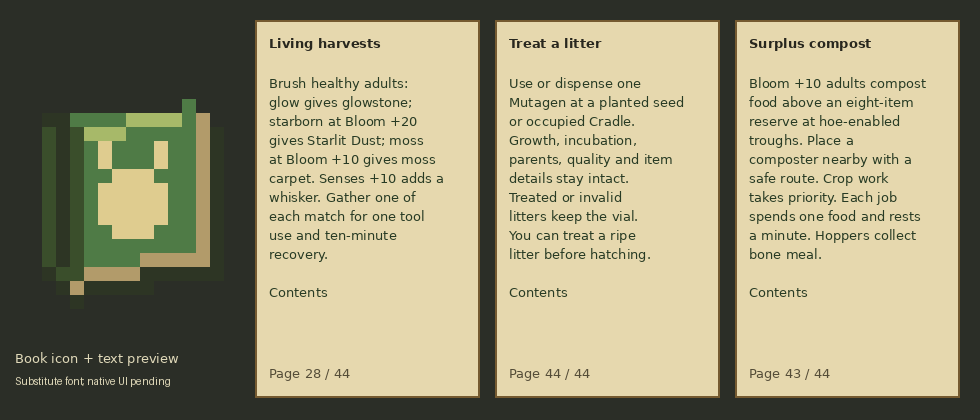
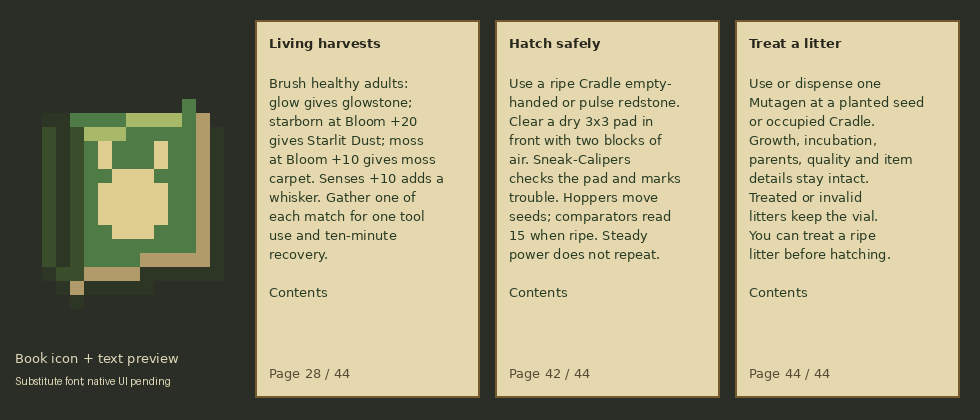
Inspect Cradle hatch pads with Calipers and native markers

diff --git a/src/main/java/com/bunnidogs/mod/item/CalipersItem.java b/src/main/java/com/bunnidogs/mod/item/CalipersItem.java
@@ -7,6 +7,8 @@ import java.util.function.Consumer;
 
 import com.bunnidogs.mod.block.SeedCropBlockEntity;
 import com.bunnidogs.mod.block.NurseryCradleBlockEntity;
+import com.bunnidogs.mod.block.NurseryCradleBlock;
+import com.bunnidogs.mod.entity.NurseryHatching;
 import com.bunnidogs.mod.entity.Bunnidog;
 import com.bunnidogs.mod.genetics.Gene;
 import com.bunnidogs.mod.genetics.Diet;
@@ -20,9 +22,11 @@ import com.bunnidogs.mod.genetics.Tissue;
 import com.bunnidogs.mod.network.ModNetwork;
 
 import net.minecraft.ChatFormatting;
+import net.minecraft.core.particles.ParticleTypes;
 import net.minecraft.network.chat.Component;
 import net.minecraft.network.chat.ComponentUtils;
 import net.minecraft.server.level.ServerPlayer;
+import net.minecraft.server.level.ServerLevel;
 import net.minecraft.world.InteractionHand;
 import net.minecraft.world.InteractionResult;
 import net.minecraft.world.entity.player.Player;
@@ -162,7 +166,7 @@ public class CalipersItem extends Item {
         return InteractionResult.SUCCESS;
     }
 
-    /** Reads the seed planted in a seed crop; any other block passes. */
+    /** Reads litter genetics, or inspects a Cradle's loaded incubation/pad while crouching. */
     @Override
     public InteractionResult useOn(UseOnContext context) {
         Level level = context.getLevel();
@@ -171,7 +175,13 @@ public class CalipersItem extends Item {
         var block = level.getBlockEntity(context.getClickedPos());
         Optional<Seed> planted;
         if (block instanceof SeedCropBlockEntity crop) planted = crop.seed();
-        else if (block instanceof NurseryCradleBlockEntity cradle) planted = cradle.seed();
+        else if (block instanceof NurseryCradleBlockEntity cradle) {
+            if (player.isShiftKeyDown()) {
+                if (!level.isClientSide()) showCradle(player,cradle);
+                return InteractionResult.SUCCESS;
+            }
+            planted = cradle.seed();
+        }
         else return InteractionResult.PASS;
         if (!level.isClientSide()) {
             Optional<Seed> seed = planted;
@@ -184,6 +194,27 @@ public class CalipersItem extends Item {
         return InteractionResult.SUCCESS;
     }
 
+    private static void showCradle(Player player, NurseryCradleBlockEntity cradle) {
+        if (!(player.level() instanceof ServerLevel server)) return;
+        var facing = cradle.getBlockState().getValue(NurseryCradleBlock.FACING);
+        var check = NurseryHatching.inspect(server,cradle.getBlockPos(),facing);
+        var item = cradle.storedSeed();
+        player.sendSystemMessage(item.isEmpty() ? Component.translatable("message.bunnidogs.cradle.readout_empty")
+                : Component.translatable("message.bunnidogs.cradle.readout",item.getHoverName(),
+                    cradle.age(),(cradle.growthWait()+19)/20,cradle.stockSignal()));
+        var problem = check.problem();
+        String location = problem == null ? "—" : problem.getX()+", "+problem.getY()+", "+problem.getZ();
+        player.sendSystemMessage(Component.translatable("message.bunnidogs.cradle.pad."+check.status().name().toLowerCase(Locale.ROOT),check.nearby(),location));
+        if (problem != null) {
+            if (server.hasChunkAt(problem)) server.sendParticles(ParticleTypes.ANGRY_VILLAGER,
+                    problem.getX()+.5,problem.getY()+.8,problem.getZ()+.5,2,.1,.1,.1,0);
+        } else for (var slot : NurseryHatching.pad(cradle.getBlockPos(),facing)) {
+            if (server.hasChunkAt(slot)) server.sendParticles(check.status() == NurseryHatching.Status.READY
+                    ? ParticleTypes.HAPPY_VILLAGER : ParticleTypes.SMOKE,
+                    slot.getX()+.5,slot.getY()+.15,slot.getZ()+.5,1,0,0,0,0);
+        }
+    }
+
     @Override
     public void appendHoverText(ItemStack stack, Item.TooltipContext context, TooltipDisplay display,
             Consumer<Component> lines, TooltipFlag flag) {
@@ -191,6 +222,7 @@ public class CalipersItem extends Item {
         lines.accept(Component.literal("Right-click a bunnidog: its sheet opens").withStyle(ChatFormatting.GRAY));
         lines.accept(Component.translatable("tooltip.bunnidogs.calipers.care").withStyle(ChatFormatting.GRAY));
         lines.accept(Component.literal("Right-click a planted seed or Nursery Cradle: litter forecast").withStyle(ChatFormatting.GRAY));
+        lines.accept(Component.translatable("tooltip.bunnidogs.calipers.cradle").withStyle(ChatFormatting.DARK_GRAY));
         lines.accept(Component.literal("Or hold a seed, sample or occupied Travel Basket in the other hand").withStyle(ChatFormatting.DARK_GRAY));
         lines.accept(Component.literal("Off hand when you kill: a Tissue Sample").withStyle(ChatFormatting.DARK_GRAY));
     }

diff --git a/src/main/java/com/bunnidogs/mod/entity/NurseryHatching.java b/src/main/java/com/bunnidogs/mod/entity/NurseryHatching.java
@@ -17,8 +17,9 @@ import net.minecraft.world.phys.Vec3;
 /** Loaded-only, checked litter placement. Callers reserve their one seed while native spawn hooks run. */
 public final class NurseryHatching {
     private NurseryHatching() {}
-    public enum Status { EMPTY, NOT_RIPE, BLOCKED, CROWDED, REFUSED, HATCHED }
+    public enum Status { EMPTY, NOT_RIPE, BLOCKED, CROWDED, REFUSED, HATCHED, READY }
     public record Outcome(Status status, int count) {}
+    public record PadCheck(Status status, BlockPos problem, int nearby) {}
     public static Outcome refused(Status status) { return new Outcome(status,0); }
     public static List<BlockPos> pad(BlockPos cradle, Direction facing) {
         var center = cradle.relative(facing,2);
@@ -27,24 +28,31 @@ public final class NurseryHatching {
         for (int x = -1; x <= 1; x++) for (int z = -1; z <= 1; z++) if (x != 0 || z != 0) slots.add(center.offset(x,0,z));
         return List.copyOf(slots);
     }
-    public static Outcome hatch(ServerLevel level, BlockPos cradle, Direction facing, Seed seed) {
+    /** Read-only loaded-world preflight shared by actual hatching and the Calipers planning view. */
+    public static PadCheck inspect(ServerLevel level, BlockPos cradle, Direction facing) {
         var slots = pad(cradle,facing);
+        var center = cradle.relative(facing,2);
+        int nearby = level.getEntitiesOfClass(Bunnidog.class,new AABB(center).inflate(Breeding.CROWD_RADIUS)).size();
         for (var pos : slots) {
             if (!level.hasChunkAt(pos) || !level.isInWorldBounds(pos.above()) || !level.getWorldBorder().isWithinBounds(pos)
-                    || !level.getBlockState(pos).isAir() || !level.getBlockState(pos.above()).isAir()
-                    || !level.getFluidState(pos).isEmpty() || !level.getFluidState(pos.above()).isEmpty()) return refused(Status.BLOCKED);
+                    || !level.getBlockState(pos).isAir() || !level.getFluidState(pos).isEmpty()) return new PadCheck(Status.BLOCKED,pos,nearby);
+            if (!level.getBlockState(pos.above()).isAir() || !level.getFluidState(pos.above()).isEmpty()) return new PadCheck(Status.BLOCKED,pos.above(),nearby);
             var floor = level.getBlockState(pos.below());
             if (!floor.isFaceSturdy(level,pos.below(),Direction.UP) || !floor.getFluidState().isEmpty()
-                    || floor.is(Blocks.MAGMA_BLOCK) || floor.is(Blocks.CAMPFIRE) || floor.is(Blocks.SOUL_CAMPFIRE)) return refused(Status.BLOCKED);
+                    || floor.is(Blocks.MAGMA_BLOCK) || floor.is(Blocks.CAMPFIRE) || floor.is(Blocks.SOUL_CAMPFIRE)) return new PadCheck(Status.BLOCKED,pos.below(),nearby);
         }
-        var center = cradle.relative(facing,2);
         var area = new AABB(center.getX()-1,center.getY(),center.getZ()-1,center.getX()+2,center.getY()+2,center.getZ()+2);
-        if (!level.noCollision(null,area,true) || !level.getEntitiesOfClass(LivingEntity.class,area,e -> e.isAlive() && !e.isSpectator()).isEmpty())
-            return refused(Status.BLOCKED);
-        int nearby = level.getEntitiesOfClass(Bunnidog.class,new AABB(center).inflate(Breeding.CROWD_RADIUS)).size();
-        if (nearby >= Breeding.CROWD_LIMIT) return refused(Status.CROWDED);
+        var occupants = level.getEntitiesOfClass(LivingEntity.class,area,e -> e.isAlive() && !e.isSpectator());
+        if (!occupants.isEmpty()) return new PadCheck(Status.BLOCKED,occupants.getFirst().blockPosition(),nearby);
+        if (!level.noCollision(null,area,true)) return new PadCheck(Status.BLOCKED,center,nearby);
+        return new PadCheck(nearby >= Breeding.CROWD_LIMIT ? Status.CROWDED : Status.READY,null,nearby);
+    }
+    public static Outcome hatch(ServerLevel level, BlockPos cradle, Direction facing, Seed seed) {
+        var check = inspect(level,cradle,facing);
+        if (check.status() != Status.READY) return refused(check.status());
+        var slots = pad(cradle,facing);
         var rng = new Random(level.getRandom().nextLong());
-        var litter = seed.hatch(0,nearby,rng);
+        var litter = seed.hatch(0,check.nearby(),rng);
         if (litter.isEmpty()) return refused(Status.CROWDED);
         var prepared = new ArrayList<Bunnidog>();
         try {

diff --git a/tools/gametest/java/com/bunnidogs/mod/entity/CradleHatchingGameTest.java b/tools/gametest/java/com/bunnidogs/mod/entity/CradleHatchingGameTest.java
@@ -10,6 +10,7 @@ import com.bunnidogs.mod.genetics.Stats;
 import com.bunnidogs.mod.item.SeedItem;
 import com.bunnidogs.mod.registry.ModBlocks;
 import com.bunnidogs.mod.registry.ModEntities;
+import com.bunnidogs.mod.registry.ModItems;
 import net.minecraft.core.BlockPos;
 import net.minecraft.core.Direction;
 import net.minecraft.gametest.framework.GameTestHelper;
@@ -36,7 +37,18 @@ public final class CradleHatchingGameTest {
         var seed = new Seed(Genome.DEFAULT,Stats.ZERO,Genome.DEFAULT,Stats.ZERO,0);
         var source = SeedItem.create(seed); cradle.insert(source);
         h.assertTrue(cradle.hatch().status() == NurseryHatching.Status.NOT_RIPE && ItemStack.matches(cradle.storedSeed(),source),"Unripe hatch attempts must retain the entire seed");
+        var player = h.makeMockServerPlayerInLevel(); player.gameMode.changeGameModeForPlayer(GameType.SURVIVAL);
+        player.setShiftKeyDown(true); var calipers = new ItemStack(ModItems.CALIPERS.get()); player.setItemInHand(InteractionHand.MAIN_HAND,calipers);
+        var hit = new BlockHitResult(Vec3.atCenterOf(pos),Direction.UP,pos,false);
+        player.gameMode.useItemOn(player,level,calipers,InteractionHand.MAIN_HAND,hit);
+        h.assertTrue(NurseryHatching.inspect(level,pos,Direction.NORTH).status() == NurseryHatching.Status.READY
+                && ItemStack.matches(cradle.storedSeed(),source) && cradle.age() == 0 && cradle.growthWait() == NurseryCradleBlockEntity.STAGE_TICKS
+                && player.getMainHandItem() == calipers && level.getEntitiesOfClass(Bunnidog.class,new AABB(center).inflate(2),Bunnidog::isBaby).isEmpty(),
+                "Native sneak-Calipers must inspect an unripe clear pad without cost, incubation changes or premature pups");
         cradle.grow(true); level.setBlock(center,Blocks.STONE.defaultBlockState(),3);
+        player.gameMode.useItemOn(player,level,calipers,InteractionHand.MAIN_HAND,hit);
+        h.assertTrue(NurseryHatching.inspect(level,pos,Direction.NORTH).problem().equals(center) && ItemStack.matches(cradle.storedSeed(),source) && cradle.age() == 7,
+                "A ripe blocked-pad readout must identify the actual obstruction while retaining the whole seed");
         h.assertTrue(cradle.hatch().status() == NurseryHatching.Status.BLOCKED,"Solid pad obstructions must retain the ripe seed");
         level.setBlock(center,Blocks.WATER.defaultBlockState(),3);
         h.assertTrue(cradle.hatch().status() == NurseryHatching.Status.BLOCKED,"A flooded hatch pad must be refused");
@@ -52,8 +64,11 @@ public final class CradleHatchingGameTest {
             }
             h.assertTrue(cradle.hatch().status() == NurseryHatching.Status.CROWDED && cradle.age() == 7
                     && ItemStack.matches(cradle.storedSeed(),source),"The native local crowd limit must preserve the ripe litter");
+            h.assertTrue(NurseryHatching.inspect(level,pos,Direction.NORTH).status() == NurseryHatching.Status.CROWDED
+                    && NurseryHatching.inspect(level,pos,Direction.NORTH).nearby() >= Breeding.CROWD_LIMIT,
+                    "Read-only pad inspection and actual hatching must share native crowd refusal");
         } finally { crowd.forEach(Bunnidog::discard); }
-        var player = h.makeMockServerPlayerInLevel(); player.gameMode.changeGameModeForPlayer(GameType.SURVIVAL);
+        player.setShiftKeyDown(false); player.setItemInHand(InteractionHand.MAIN_HAND,ItemStack.EMPTY);
         player.gameMode.useItemOn(player,level,ItemStack.EMPTY,InteractionHand.MAIN_HAND,new BlockHitResult(Vec3.atCenterOf(pos),Direction.UP,pos,false));
         var babies = level.getEntitiesOfClass(Bunnidog.class,new AABB(center).inflate(2),Bunnidog::isBaby);
         h.assertTrue(cradle.storedSeed().isEmpty() && babies.size() >= 1 && babies.size() <= 6

diff --git a/art/gen_guide.py b/art/gen_guide.py
@@ -44,7 +44,7 @@ PAGES = {
     38: ('Care dispensers', 'Dispensers use Brushes or Sampling Syringes on one eligible bunnidog ahead per pulse. One tool use; hand and machine share recovery. Collect drops with hoppers. Armadillo brushing still works.'),
     39: ('Travel Basket', 'Craft six planks, leather and a lead into a basket. Pack one calm, unled animal; release on clear dry ground. Identity and care rest persist; its old Nest becomes free. Calipers reads it; sneak-use books to log it.'),
     41: ('Nursery Cradle', 'Craft wool, glass, a Nest and planks into a Nursery Cradle. Insert one seed; a loaded minute adds one stage. Bone meal helps; Starlit Dust ripens it. Sneak-empty withdraws and resets growth. Calipers reads the litter.'),
-    42: ('Hatch safely', 'To hatch, use a ripe Cradle empty-handed or pulse redstone. Clear a dry 3x3 pad in front with two blocks of air. Stand aside. Hoppers move seeds; a comparator reads 15 when ripe. Steady power does not repeat.'),
+    42: ('Hatch safely', 'Use a ripe Cradle empty-handed or pulse redstone. Clear a dry 3x3 pad in front with two blocks of air. Sneak-Calipers checks the pad and marks trouble. Hoppers move seeds; comparators read 15 when ripe. Steady power does not repeat.'),
     43: ('Surplus compost', 'Bloom +10 adults compost food above an eight-item reserve at hoe-enabled troughs. Place a composter nearby with a safe route. Crop work takes priority. Each job spends one food and rests a minute. Hoppers collect bone meal.'),
     44: ('Treat a litter', 'Use or dispense one Mutagen at a planted seed or occupied Cradle. Growth, incubation, parents, quality and item details stay intact. Treated or invalid litters keep the vial. You can treat a ripe litter before hatching.'),
 }
@@ -99,7 +99,7 @@ def main():
         bold = ImageFont.truetype('DejaVuSans-Bold.ttf',13)
     except OSError:
         font = bold = ImageFont.load_default()
-    for x,page in [(255,28),(495,44),(735,43)]:
+    for x,page in [(255,28),(495,42),(735,44)]:
         d.rectangle((x,20,x+224,397),fill=(230,216,174),outline=(117,90,48),width=2)
         title = 'Bunnidogs Guide' if page == 1 else 'More chapters' if page == 40 else PAGES[page][0]
         d.text((x+14,35),title,font=bold,fill=(40,39,30))

diff --git a/src/main/java/com/bunnidogs/mod/block/NurseryCradleBlock.java b/src/main/java/com/bunnidogs/mod/block/NurseryCradleBlock.java
@@ -20,6 +20,8 @@ import net.minecraft.world.level.LevelReader;
 import net.minecraft.world.level.block.Block;
 import net.minecraft.world.level.block.EntityBlock;
 import net.minecraft.world.level.block.BonemealableBlock;
+import net.minecraft.world.level.block.Rotation;
+import net.minecraft.world.level.block.Mirror;
 import net.minecraft.world.level.block.entity.BlockEntity;
 import net.minecraft.world.level.block.entity.BlockEntityTicker;
 import net.minecraft.world.level.block.entity.BlockEntityType;
@@ -40,6 +42,8 @@ public final class NurseryCradleBlock extends Block implements EntityBlock, Bone
     public NurseryCradleBlock(Properties props) { super(props); registerDefaultState(this.stateDefinition.any().setValue(FACING,Direction.NORTH).setValue(POWERED,false).setValue(FILL,0)); }
     @Override protected void createBlockStateDefinition(StateDefinition.Builder<Block,BlockState> builder) { builder.add(FACING,POWERED,FILL); }
     @Override public BlockState getStateForPlacement(BlockPlaceContext context) { return defaultBlockState().setValue(FACING,context.getHorizontalDirection().getOpposite()).setValue(POWERED,context.getLevel().hasNeighborSignal(context.getClickedPos())); }
+    @Override protected BlockState rotate(BlockState state, Rotation rotation) { return state.setValue(FACING,rotation.rotate(state.getValue(FACING))); }
+    @Override protected BlockState mirror(BlockState state, Mirror mirror) { return state.rotate(mirror.getRotation(state.getValue(FACING))); }
     @Override public BlockEntity newBlockEntity(BlockPos pos, BlockState state) { return new NurseryCradleBlockEntity(pos,state); }
     @Override public <T extends BlockEntity> BlockEntityTicker<T> getTicker(Level level, BlockState state, BlockEntityType<T> type) {
         return level.isClientSide() || type != ModBlocks.NURSERY_CRADLE_BE.get() ? null

diff --git a/START_HERE.md b/START_HERE.md
@@ -22,6 +22,12 @@ checkpoints/compaction and reserve only the capacity needed to deliver safely.
 
 ## Latest gameplay work — 2026-10-17
 
+- **N6, hatch-pad planning:** sneak-Calipers reads Cradle incubation/signal,
+  crowding and actual pad obstructions, with temporary native markers. The
+  same loaded-world preflight gates real hatching; inspection consumes/rolls
+  nothing. Normal Calipers retains the litter forecast. Native structure
+  rotation/mirroring updates its facing. See `docs/NURSERY_SPECS.md` N6.
+
 - **N5, in-place Mutagen:** use or dispense a vial at a planted seed/occupied
   Cradle. One success updates only its existing Mutagen flag, preserving whole
   item components, age and remaining incubation. Already treated/invalid
@@ -108,7 +114,7 @@ lineage food tables and shares the guide pool. See `docs/FIELD_GUIDE.md`.
 |---|---|
 | Genetics and breeding | Seven genes, inherited pairs, bred stats/Bloom, eight guava tiers, litter seeds/crops, infused juice. `docs/FEATURES.md`, `docs/FIXES_PLAN.md` 6 |
 | Sheets and records | Calipers, Pedigree Book, Ear Tags, seed/sample sheets, forecasts and carried-animal records. `docs/SHEET_SPECS.md` S1–S9 |
-| Nursery | Whole saved seeds, protected crop harvest/recovery, in-place Mutagen, dispenser stations and a craftable Cradle with saved incubation, native automation and checked hatching. `docs/NURSERY_SPECS.md` N1–N5 |
+| Nursery | Whole saved seeds, protected crop harvest/recovery, in-place Mutagen, dispenser stations and a craftable Cradle with incubation, native automation, checked hatching and pad planning. `docs/NURSERY_SPECS.md` N1–N6 |
 | Laboratory | Two sample slots, vial display, pup/copy odds and both-direction splice plans. `docs/TABLE_SPECS.md` T1–T6 |
 | Gene Splicer | One donor expressed copy, chosen gene, sample/Mutagen/tool cost, recipient recovery; breeding fixes pairs. `docs/SPLICER_SPECS.md` |
 | Registry and shows | Distinct stable bred lines, linked snapshots, balanced-stat bronze/silver/gold judging, per-animal awards, ribbons and Champion Line. `docs/REGISTRY_SPECS.md`, `docs/SHOW_SPECS.md` |
@@ -201,6 +207,9 @@ cases plus native sanity). Latest coverage:
   Adventure refusal, whole-item native saves and unchanged stage/remaining
   time. Real dispenser Cradle/crop treatment, repeat/empty/wrong-target refusal
   and no vial ejection pass; existing held-seed Mutagen remains covered by N2.
+- **N6:** actual native sneak-Calipers on clear unripe/blocked ripe Cradles
+  preserves seed/stage/time/tool and creates no pups; shared inspection reports
+  matching crowd refusal. Existing native spawn/redstone cases remain passing.
 - **S9/H6:** exact carried records through air/block/off-hand/creative use,
   duplicate protection, registry award, invalid UUID/pup refusal and unchanged
   payload. Basket release still preserves all six paused timers, identity,

diff --git a/docs/API_NOTES.md b/docs/API_NOTES.md
@@ -28,6 +28,7 @@ Status words: **COMPILED** = the user's compile accepted it (names and types are
 ### Lookup table (need -> what works in this project -> status -> exact place)
 | Need | What works | Status | Where it was verified |
 |---|---|---|---|
+| Cradle pad planning N6 | Share a loaded-only PadCheck between NurseryHatching.inspect and hatch; report exact foot/head/floor or occupant position and native crowd count without RNG or entity creation. Native crouched item use reaches Calipers.useOn; ServerLevel.sendParticles accepts built-in HAPPY_VILLAGER/ANGRY_VILLAGER/SMOKE without custom payloads. Block rotate/mirror forward horizontal facing through native Rotation/Mirror. | Actual build/all 38 native cases, real crouched Calipers preservation and shared obstruction/crowd refusal; guide preview inspected, client particles pending | NurseryHatching, CalipersItem, NurseryCradleBlock, CradleHatchingGameTest |
 | In-place Mutagen N5 | MutagenItem.useOn and dispenser TREAT share one server operation. Update only saved SEED_DATA/Seed text after validity and existing-flag checks; leave stage/remaining time intact. Use the player's actual hand stack for creative native item-hook copies. Cradle parsing cache keys the seed-data string, so treatment invalidates naturally without per-tick reparsing. | Actual build/all 38 native cases; off-hand/Adventure/creative/codec/progress and real dispenser success/refusal | MutagenItem, NurseryCradleBlockEntity.applyMutagen, ModDispensers, NurseryTreatmentGameTest |
 | Living moss/guava compost C9/L15 | Append the moss product to pure Grooming.yields and map it in shared BunnidogCare; ordinary hand/dispenser paths retain one wear and saved GroomWait. NeoForge item data maps live at data/neoforge/data_maps/item/compostables.json with replace:false and values of chance. Register only plain guava/leaves/sapling, leaving higher tiers absent. | Actual build/all 37 native cases; expressed/Bloom/combined/recovery/native dispenser and loaded compost-data/plain-resident cases | Grooming, BunnidogCare, GroomingGameTest, CareDispenserGameTest, CompostingGameTest |
 | Resident composting L14 | ComposterBlock.getValue(ItemStack) reads the native NeoForge COMPOSTABLES data map; the old static COMPOSTABLES map is deprecated. Public insertItem(Entity,BlockState,ServerLevel,ItemStack,BlockPos) spends one item even when the native chance fails and schedules level-7 maturation. Reserve an exact source item before callbacks, recheck the target and return an unused remainder. Native hopper/container output empties level 8 for one bone meal. | Actual build/all 37 native cases, exact reserve/cost/protection/priority/chance/maturation/hopper output | GardenGoal, Gardening, FeedingTroughBlockEntity, CompostingGameTest |

diff --git a/docs/NURSERY_SPECS.md b/docs/NURSERY_SPECS.md
@@ -146,3 +146,22 @@ round-trip. Real scheduled dispenser pulses exercise Cradle/crop success,
 already-treated/empty/wrong targets and no vial ejection. Native incubation
 continues naturally after treatment rather than restarting. The 44-page guide
 preview includes the new treatment page; actual client use remains review.
+
+## N6 — Calipers pad planning
+
+Sneak-use Calipers on a Cradle to read its stored item, stage, next-stage time,
+comparator and nearby bunnidog count. The shared loaded-world preflight reports
+a clear pad, crowding, or a blocked position (including headroom, floor and
+living occupants). Temporary green particles mark a clear pad's nine places;
+angry particles mark an obstruction, and smoke marks a crowded clear pad.
+Empty Cradles can be planned too. Inspection rolls no litter, spends nothing,
+changes no stock/timer/power and requests no terrain chunks. Normal Calipers
+still opens the genetic forecast. These are current conditions, rechecked by
+real hatching. Native structure rotation/mirroring now updates Cradle facing.
+
+Actual Java 25 build/all 38 native scenarios pass. The extended hatching case
+uses the real native crouched Calipers path for clear unripe/blocked ripe
+Cradles, checking unchanged item/age/time/tool and no premature pups. Shared
+inspection agrees with actual crowd refusal. Existing physical hatching,
+redstone and spawn-rollback scenarios remain passing. Guide page 42's preview
+is inspected; native particle appearance and client input remain gameplay review.

diff --git a/docs/FIELD_GUIDE.md b/docs/FIELD_GUIDE.md
@@ -24,6 +24,7 @@ Record/registry/basket pages explain deliberate sneak-use for carried records.
 The litter page explains dispenser seed planting and Starlit Dust ripening.
 Pages 41–42 explain the craftable Nursery Cradle, saved incubation, withdrawal,
 growth tools, hopper/comparator controls and safe hatching with a fresh pulse.
+The safe-hatch page also explains sneak-Calipers pad checks/temporary markers.
 Page 43 connects surplus resident food to native composting, its eight-item
 reserve, crop priority, shared work recovery and ordinary hopper bone meal.
 Page 44 explains in-place hand/dispenser Mutagen, retained incubation and
@@ -60,7 +61,7 @@ resource-pack fonts may differ. The source preview uses a substitute font.
 
 The actual Java 25 build and current thirty-eight native server cases pass,
 including loading the new book/recipe/loot resources. The expanded 44-page
-living-harvest/treatment/compost preview is inspected with a substitute font. Earlier
+living-harvest/hatch-planning/treatment preview is inspected with a substitute font. Earlier
 pages were shortened using the conservative native text-area estimate.
 Native WrittenBookItem, ServerPlayer, ClientPacketListener and BookViewScreen
 sources establish the ordinary book/packet/click behavior; no new screen or

diff --git a/docs/FEATURES.md b/docs/FEATURES.md
@@ -124,6 +124,11 @@ litter without uprooting it or resetting growth. Names, parents, quality and
 incubation stay intact. Ripe litters may be treated; already-treated or invalid
 targets keep the vial. Existing held-seed/off-hand treatment still works.
 
+**Cradle planning (N6):** sneak-use Calipers for incubation, comparator output,
+crowding and a blocked location. Temporary green markers show a clear pad;
+angry particles show trouble and smoke means crowding. This works while empty
+or growing and changes nothing. Normal Calipers still shows litter genetics.
+
 **Nest wayfinding (H7):** use a compass on a Nest to mark that place. Its needle
 points there in that dimension and spins elsewhere; the marker remains if the
 Nest is removed. Names/components survive and stacked compasses bind one item.

diff --git a/docs/ROADMAP.md b/docs/ROADMAP.md
@@ -16,6 +16,10 @@ and mouths, **H3b** house floor Nests. V1a, V1b, H3 and H4 WORK.
 
 ## Latest implemented work (gameplay pending)
 
+N6 adds read-only sneak-Calipers incubation/crowd/pad checks and temporary
+markers, sharing actual hatch preflight. Native Cradle structure rotation and
+mirroring also follow its facing. See `NURSERY_SPECS.md`.
+
 N5 lets hand/dispenser Mutagen treat a planted seed or Cradle in place,
 preserving the whole saved item, age and remaining incubation. Repeats/refusals
 retain the vial. The Field Guide has 44 pages. See `NURSERY_SPECS.md`.

diff --git a/README.md b/README.md
@@ -35,6 +35,7 @@ Plain guavas and guava foliage also compost natively. Brush a healthy moss-coat
 adult with Bloom +10 for one loose Moss Carpet, sharing ordinary grooming rest.
 Use or dispense Mutagen on a planted seed or Cradle to treat its litter in
 place, preserving growth and incubation; repeated treatment keeps the vial.
+Sneak-use Calipers on a Cradle to inspect incubation and mark its hatch pad.
 
 ## Build and play
 
